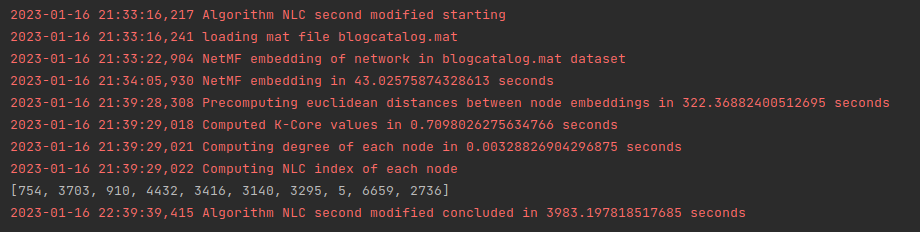
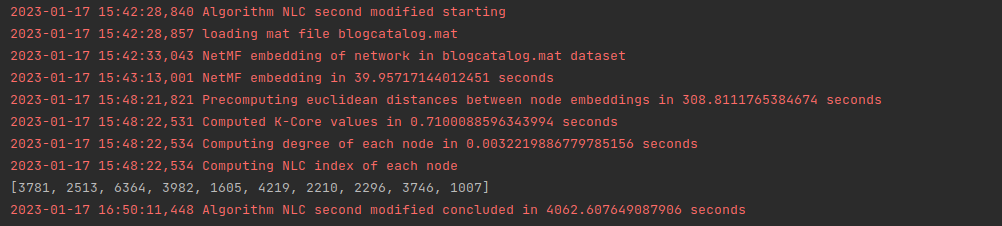
updating test, correcting method nlc_modified_second, and adding third one

diff --git a/main/algorithm.py b/main/algorithm.py
@@ -339,13 +339,57 @@ def nlc_modified_second(args):
         neighbors = neighborhood(G, i, level=3)
         for j in neighbors:
             nlc_indexes[i] += (core_values[i] * math.exp(distances[i, j]))
-    # sorting in descending order the nodes based on their NLC index  values and degrees vector
-    nlc_indexes = dict(sorted(nlc_indexes.items(), key=operator.itemgetter(1), reverse=True))
-    degrees = dict(sorted(degrees.items(), key=operator.itemgetter(1), reverse=True))
     # returning top 10 influential nodes
     result = dict.fromkeys(nlc_indexes.keys(), 0)
     for node in result:
-        result[node] = list(nlc_indexes.keys()).index(node) + list(degrees.keys()).index(node)
+        result[node] = nlc_indexes[node] * degrees[node]
+    result = dict(sorted(result.items(), key=operator.itemgetter(1), reverse=False))
+    k = args.top
+    print(list(result.keys())[:k])
+
+
+# ---------------------------------------------------------------
+#
+# NLC modified third algorithm to obtain the influence of nodes,
+# considering the ratio between the node's degree and the total
+# degree of neighborhood of each node.
+# @param: args - arguments from command line
+# Prints the top K influential nodes in the graph
+# ---------------------------------------------------------------
+def nlc_modified_third(args):
+    G = load_graph(args.matfile, variable_name=args.matfile_variable_name)
+    # Using NetMF embedding from karateclub module
+    logger.info("NetMF embedding of network in %s dataset", args.matfile)
+    start_time1 = time.time()
+    model = ne.NetMF()
+    model.fit(G)
+    embedding = model.get_embedding()
+    logger.info("NetMF embedding in %s seconds" % (time.time() - start_time1))
+    G.remove_edges_from(list(nx.selfloop_edges(G)))
+    # Precomputing euclidean distances between nodes in embedding
+    distances = precomputing_euclidean(embedding)
+    # Computing k-core value of each node
+    core_values = compute_k_core_values(G)
+    # Computing degree for each node
+    start_time4 = time.time()
+    degrees = {node: val for (node, val) in G.degree()}
+    logger.info("Computing degree of each node in %s seconds" % (time.time() - start_time4))
+    # Computing the NLC index of each node
+    nlc_indexes = dict.fromkeys(core_values.keys(), 0)
+    neighborhood_degree = dict.copy(nlc_indexes)
+    influence = dict.copy(nlc_indexes)
+    logger.info("Computing NLC index and degree ratio of each node")
+    for i in G:
+        neighbors = neighborhood(G, i, level=3)
+        neighborhood_degree[i] += degrees[i]
+        for j in neighbors:
+            nlc_indexes[i] += (core_values[i] * math.exp(distances[i, j]))
+            neighborhood_degree[i] += degrees[j]
+        influence[i] = degrees[i] / neighborhood_degree[i]
+    # returning top 10 influential nodes
+    result = dict.fromkeys(nlc_indexes.keys(), 0)
+    for node in result:
+        result[node] = nlc_indexes[node] * influence[node]
     result = dict(sorted(result.items(), key=operator.itemgetter(1), reverse=False))
     k = args.top
     print(list(result.keys())[:k])
@@ -482,16 +526,21 @@ if __name__ == "__main__":
     #     start = time.time()
     #     nlc_modified(args)
     #     logger.info("Algorithm NLC modified concluded in %s seconds" % (time.time() - start))
-    # else:
-    #     logger.info("Algorithm NLC second modified starting")
-    #     start = time.time()
-    #     nlc_modified_second(args)
-    #     logger.info("Algorithm NLC second modified concluded in %s seconds" % (time.time() - start))
     else:
-         logger.info("Algorithm LRASP starting")
-         start = time.time()
-         local_rasp(args)
-         logger.info("Algorithm LRASP concluded in %s seconds" % (time.time() - start))
+        logger.info("Algorithm NLC second modified starting")
+        start = time.time()
+        nlc_modified_second(args)
+        logger.info("Algorithm NLC second modified concluded in %s seconds" % (time.time() - start))
+    # else:
+    #     logger.info("Algorithm NLC third modified starting")
+    #     start = time.time()
+    #     nlc_modified_third(args)
+    #     logger.info("Algorithm NLC third modified concluded in %s seconds" % (time.time() - start))
+    # else:
+    #      logger.info("Algorithm LRASP starting")
+    #      start = time.time()
+    #      local_rasp(args)
+    #      logger.info("Algorithm LRASP concluded in %s seconds" % (time.time() - start))
     #else:
     #    logger.info("Algorithm gravity model KSGCNetMF starting")
     #    start = time.time()
